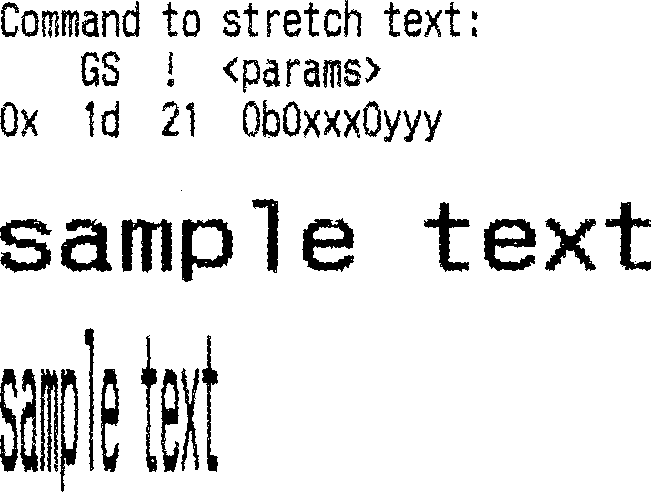
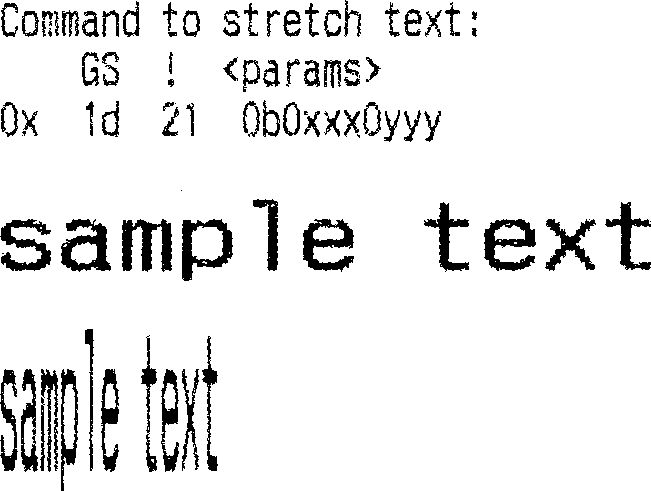
Revert to maximizing sum of squares of sums of gradients

diff --git a/main.py b/main.py
@@ -199,120 +199,12 @@ def main():
 
     args = parser.parse_args()
 
-    charMap = loadCharMap()
-
     img = cv.imread(args.input, cv.IMREAD_GRAYSCALE)
     assert img is not None, "file could not be read"
 
     img = coarseDeskew(img)
-
-    boxes = boxConnectedComponents(invertAndThreshold(img))
-
-    # TODO filter out boxes that aren't near the median size
-
-    boxes.sort(key=lambda b: b[2] * b[3])
-    boxes = boxes[len(boxes)//4*3-100:len(boxes)//4*3+100]
-
-    img_boxes = cv.cvtColor(img, cv.COLOR_GRAY2RGB)
-    for y, x, h, w in boxes:
-        cv.rectangle(img_boxes, (x, y), (x+w, y+h), (0, 0, 255), 2)
-    debug(img_boxes)
-
-    padding = 2
-    boxes = list(map(lambda b: (b[0]-padding, b[1]-padding, b[2]+2*padding, b[3]+2*padding), boxes))
-
-    img_color = cv.cvtColor(img, cv.COLOR_GRAY2RGB)
-    points = []
-    for box in boxes:
-        result = recognizeChar(img, box, charMap)
-        if result is None:
-            continue
-        scaleFactor, label, ly, lx = result
-        # get char
-        char, _, _ = charMap[label]
-        charHeight, charWidth = char.shape
-
-        # get patch around (lx, ly)
-        pya = int(ly)
-        pxa = int(lx)
-        pyb = int(ly) + charHeight
-        pxb = int(lx) + charWidth
-        patch = img[pya:pyb, pxa:pxb]
-        patch = cv.resize(patch, None, fx=scaleFactor, fy=scaleFactor)
-
-        dx, dy, s = findOptimalTransform(char, patch, 2, .04)
-        compositeImg(img_color, cv.cvtColor(char, cv.COLOR_GRAY2RGB),
-            int(lx + dx), int(ly + dy), 1/scaleFactor)
-
-        points.append((lx + dx, ly + dy))
-    debug(img_color)
-
-    points = np.array(points).reshape(-1, 1, 2).astype(np.float32)
-
-    lines = cv.HoughLinesPointSet(points, lines_max=100, threshold=5,
-                                  min_rho=0, max_rho=max(img.shape),
-                                  rho_step=1, min_theta=-math.pi/8,
-                                  max_theta=math.pi/2+math.pi/8,
-                                  theta_step=math.pi/360)
-    img_color = cv.cvtColor(img, cv.COLOR_GRAY2RGB)
-    for line in lines:
-        votes, rho, theta = line.reshape(-1)
-        # slope of the radial line: a / b
-        a = math.cos(theta)
-        b = math.sin(theta)
-        x0 = rho * a
-        y0 = rho * b
-        # slope of the perpendicular hough line: -b / a
-        x1 = x0 - 1000 * b
-        y1 = y0 + 1000 * a
-        x2 = x0 + 1000 * b
-        y2 = y0 - 1000 * a
-        p1 = np.array((x1, y1)).astype(np.uint64)
-        p2 = np.array((x2, y2)).astype(np.uint64)
-        cv.line(img_color, p1, p2, color=(0, 0, 255), thickness=int(votes))
-
-    for point in points:
-        x, y = point.reshape(-1)
-        cv.circle(img_color, center=np.array((x, y), dtype=np.uint64), radius=5, color=(255, 0, 0), thickness=2)
-
-    debug(img_color)
-
-    epsilon = math.pi / 32
-    horizontalLines = list(filter(lambda line: math.fabs(line[0][2] - math.pi / 2) < epsilon, lines))
-    verticalLines = list(filter(lambda line: math.fabs(line[0][2]) < epsilon, lines))
-    sumHorizontalThetas = sum(map(lambda line: line[0][2] - math.pi/2, horizontalLines))
-    sumVerticalThetas = sum(map(lambda line: line[0][2], verticalLines))
-    if len(horizontalLines) > 0:
-        avgHTheta = sumHorizontalThetas / len(horizontalLines)
-        print("avg h. theta:", avgHTheta)
-    if len(verticalLines) > 0:
-        avgVTheta = sumVerticalThetas / len(verticalLines)
-        print("avg v. theta:", avgVTheta)
-    avgTheta = (sumHorizontalThetas + sumVerticalThetas) / (len(horizontalLines) + len(verticalLines))
-    print("fine adjustment:", avgTheta)
-
-    img_color = cv.cvtColor(img, cv.COLOR_GRAY2RGB)
-    for line in (*horizontalLines, *verticalLines):
-        votes, rho, theta = line.reshape(-1)
-        # slope of the radial line: a / b
-        a = math.cos(theta)
-        b = math.sin(theta)
-        x0 = rho * a
-        y0 = rho * b
-        # slope of the perpendicular hough line: -b / a
-        x1 = x0 - 1000 * b
-        y1 = y0 + 1000 * a
-        x2 = x0 + 1000 * b
-        y2 = y0 - 1000 * a
-        p1 = np.array((x1, y1)).astype(np.uint64)
-        p2 = np.array((x2, y2)).astype(np.uint64)
-        cv.line(img_color, p1, p2, color=(0, 0, 255), thickness=2)
-
-    for point in points:
-        x, y = point.reshape(-1)
-        cv.circle(img_color, center=np.array((x, y), dtype=np.uint64), radius=5, color=(255, 0, 0), thickness=2)
-
-    debug(img_color)
+    _, img = cv.threshold(img, 127, 255, 0)
+    img = cropImg(img)
 
     cv.imwrite(args.output, img)
 
